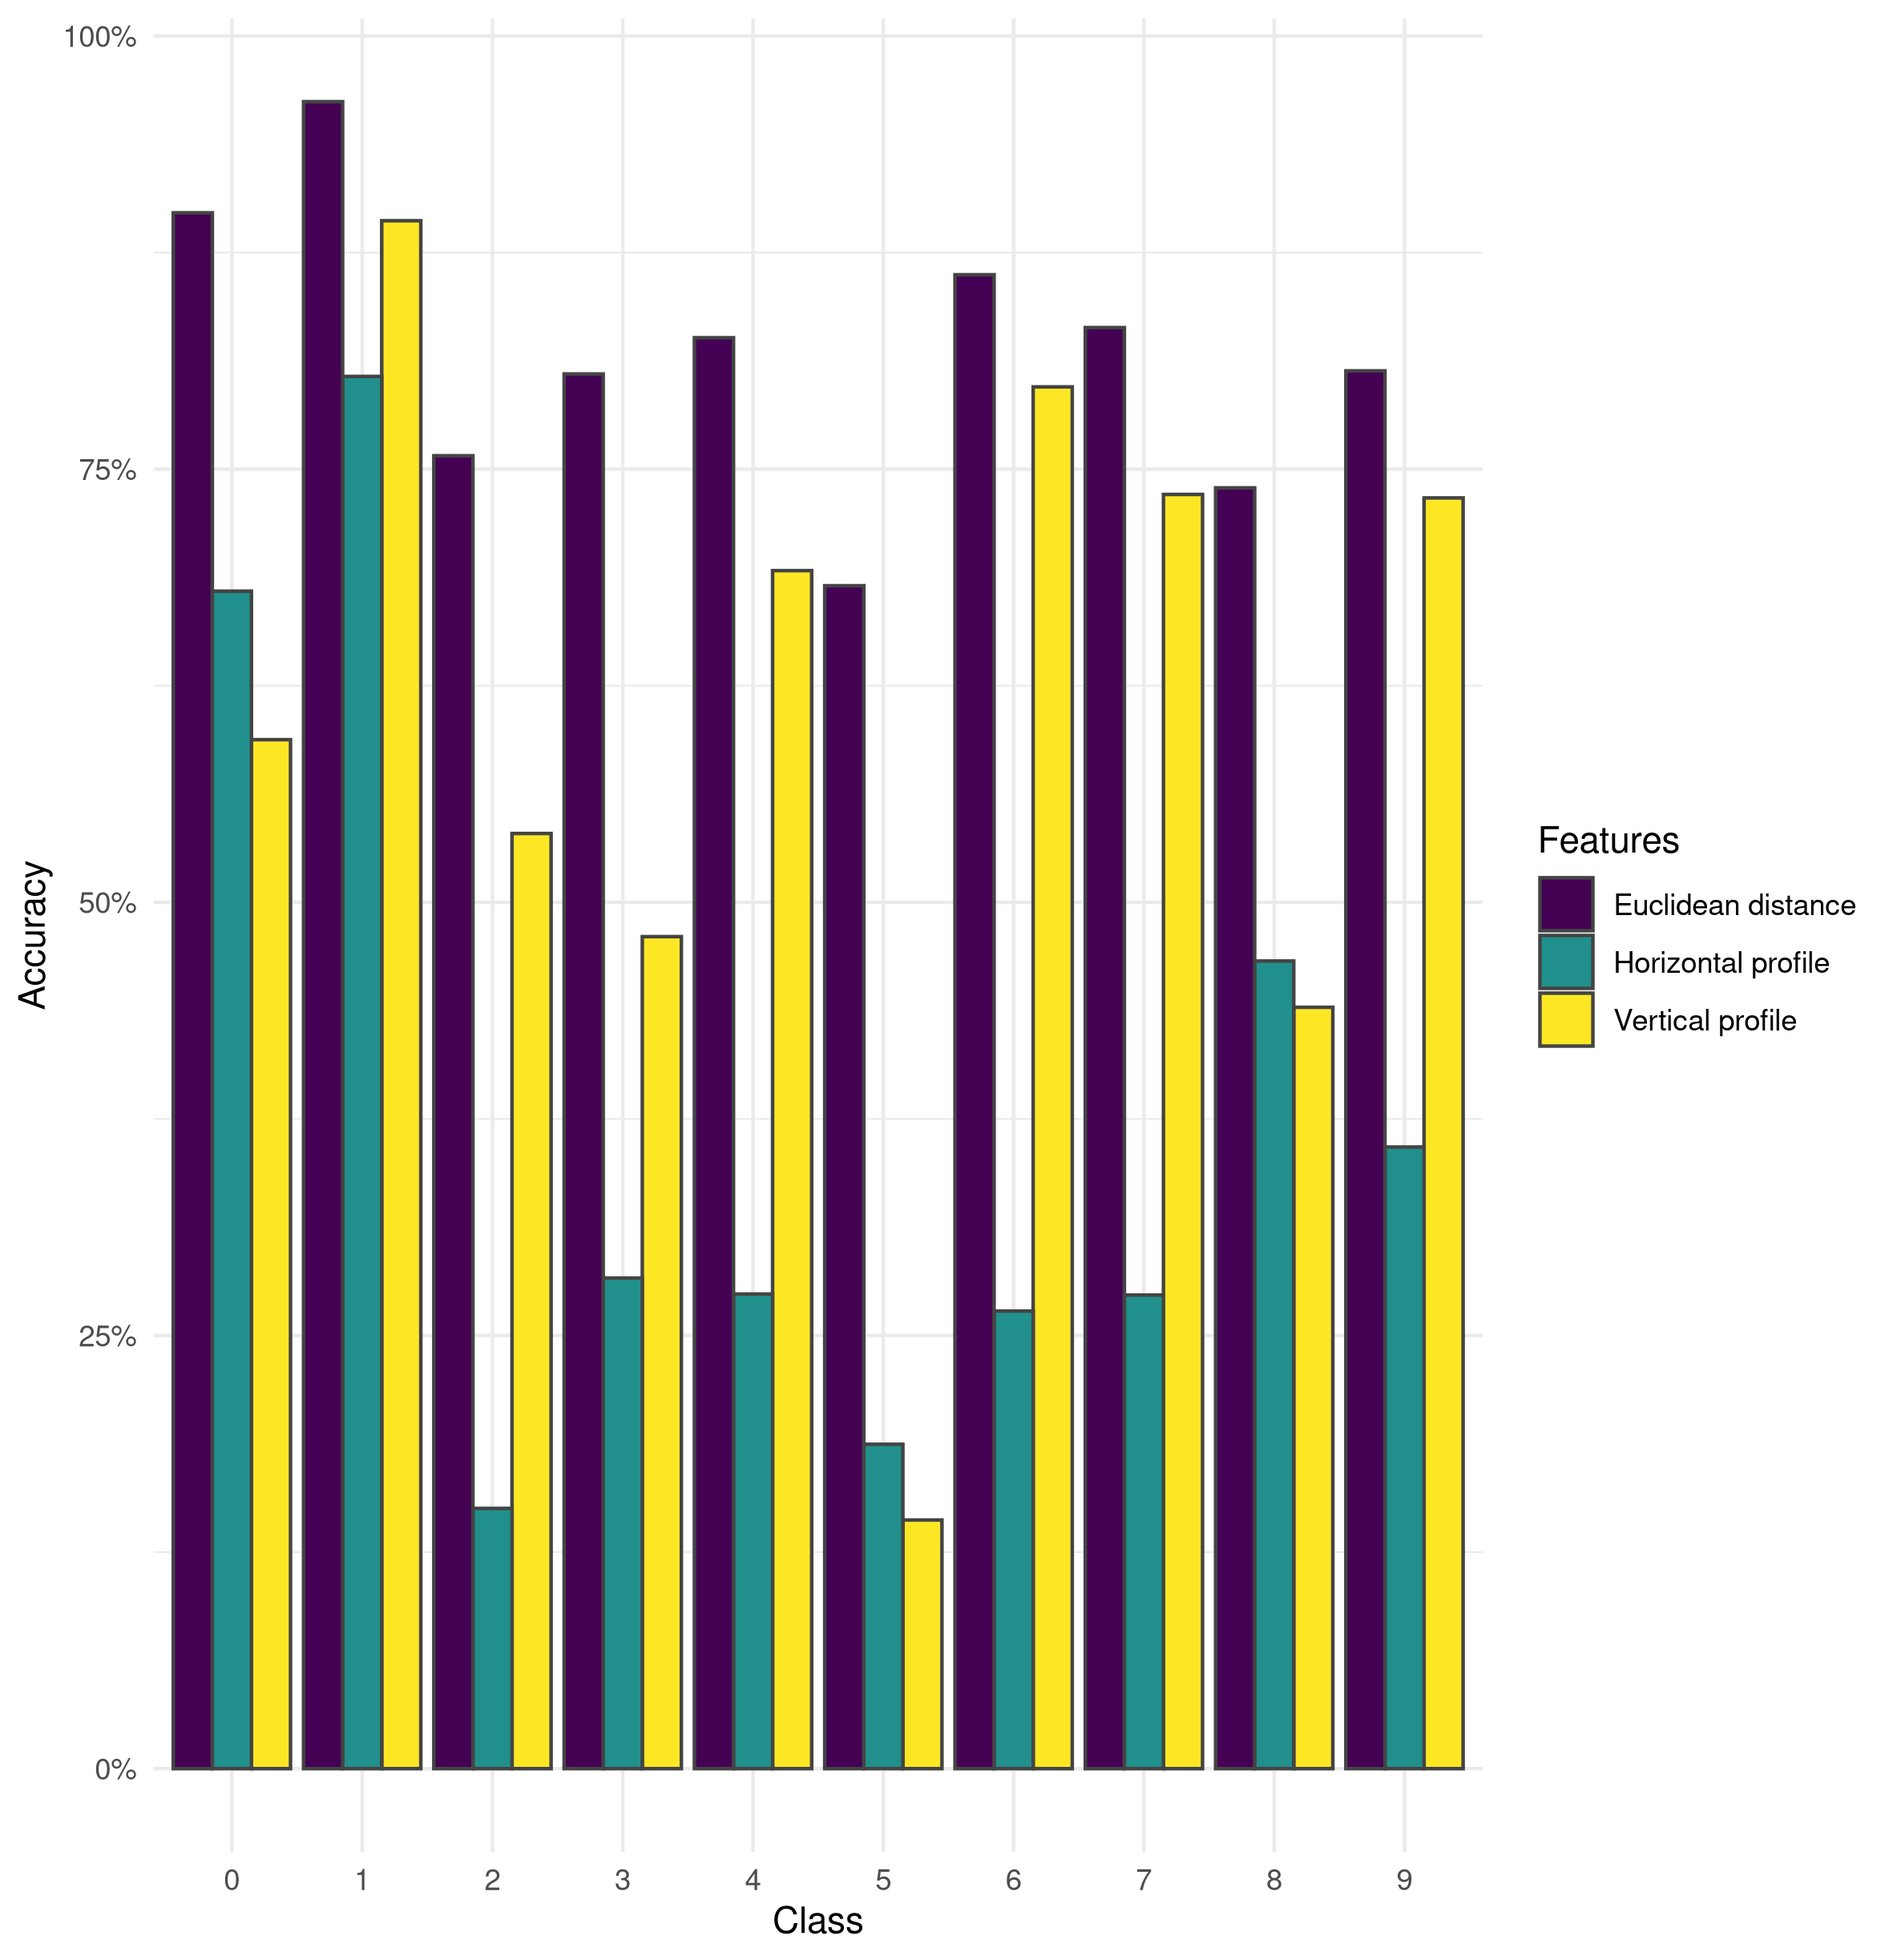
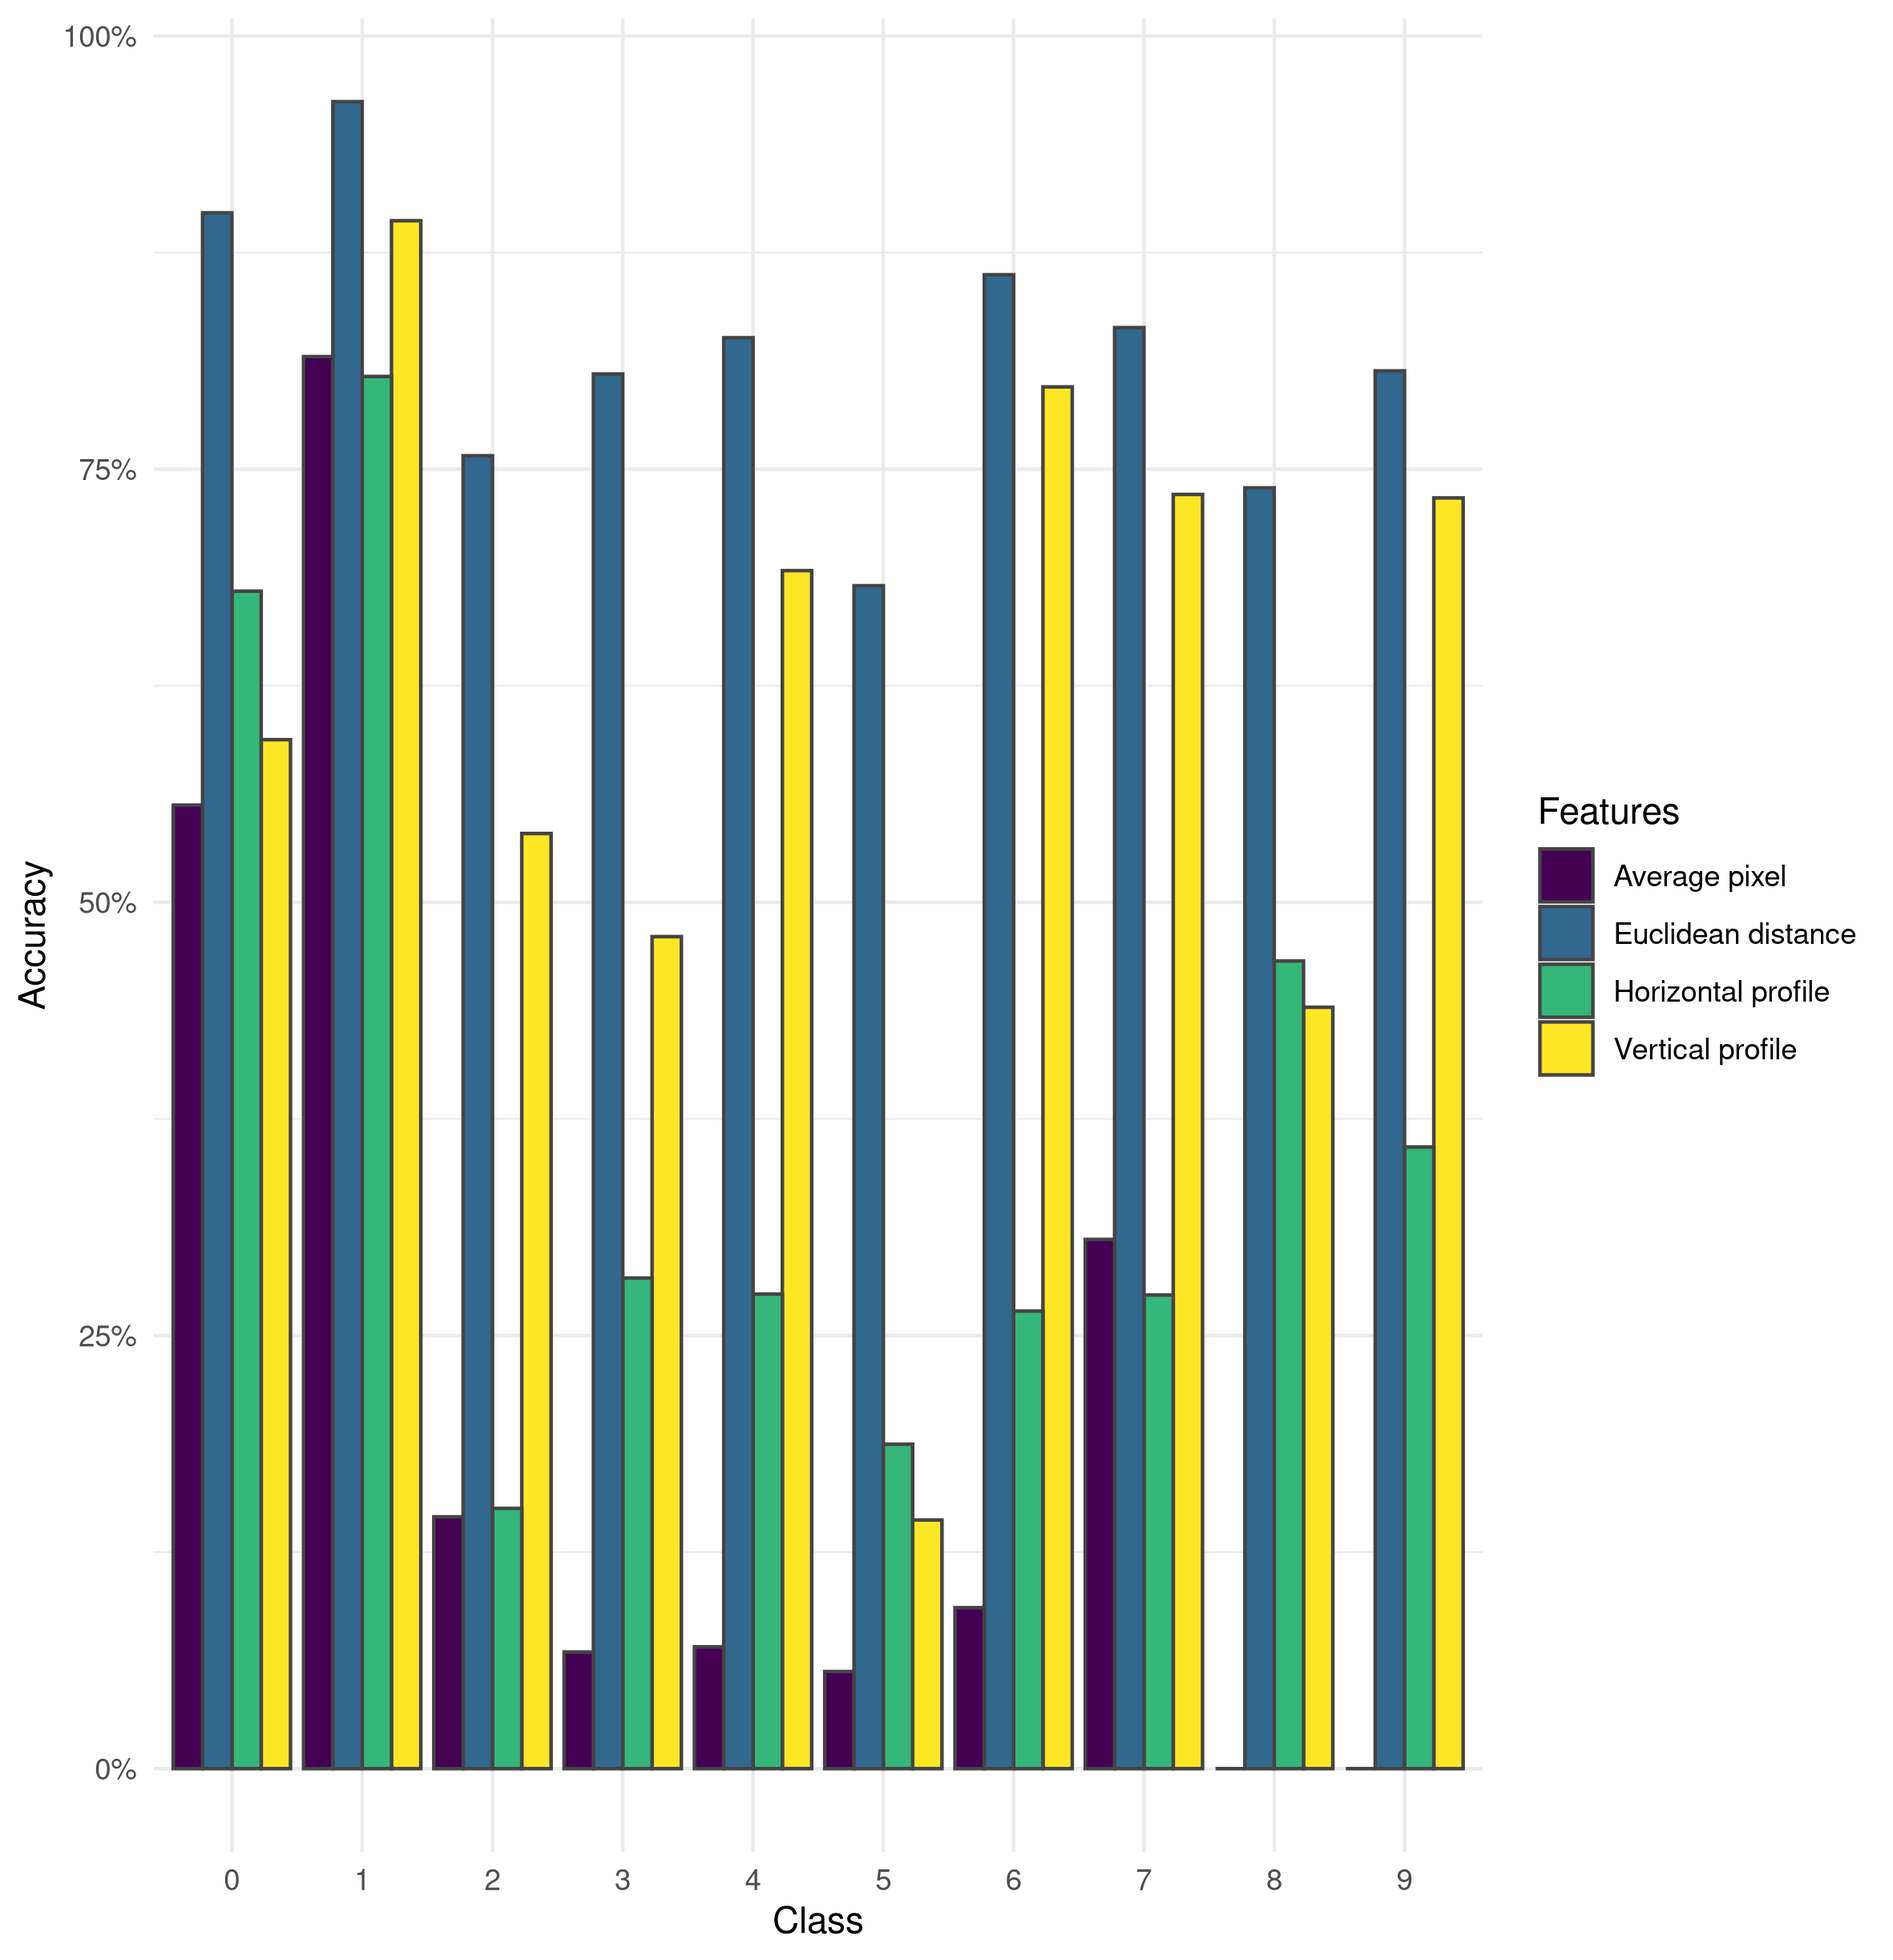
Implement average-pixel feature.

Changed region(s): [[0.0927, 0.0311, 0.7727, 0.9011], [0.8036, 0.4039, 0.989, 0.5593]]

diff --git a/exercises/02_classification/classification.py b/exercises/02_classification/classification.py
@@ -148,19 +148,26 @@ class Classifier:
 def main():
     features = [
             {
-                'id': 'horizontal_profile',
-                'name': "Horizontal profile",
-                'f': extract_horizontal_profile,
-                'f_compare': compare_profiles,
-                'dim': (28,)
+                'id': 'average_pixel',
+                'name': "Average pixel",
+                'f': extract_average_pixel,
+                'f_compare': compare_average_pixel,
+                'dim': (1,)
             },
-            {
-                'id': 'vertical_profile',
-                'name': "Vertical profile",
-                'f': extract_vertical_profile,
-                'f_compare': compare_profiles,
-                'dim': (28,)
-            },
+            # {
+            #     'id': 'horizontal_profile',
+            #     'name': "Horizontal profile",
+            #     'f': extract_horizontal_profile,
+            #     'f_compare': compare_profiles,
+            #     'dim': (28,)
+            # },
+            # {
+            #     'id': 'vertical_profile',
+            #     'name': "Vertical profile",
+            #     'f': extract_vertical_profile,
+            #     'f_compare': compare_profiles,
+            #     'dim': (28,)
+            # },
             # {
             #     'id': 'euclidean_distance',
             #     'name': 'Euclidean distance',
@@ -264,6 +271,13 @@ def compare_euclidean_distance(a, b):
 
     # And finally the sqrt
     return np.sqrt(sum_of_diff)
+
+def extract_average_pixel(pixels):
+    return pixels.sum() / (pixels.shape[0] * pixels.shape[1])
+
+def compare_average_pixel(a, b):
+    # Average pixel value will be in [0, 255], normalize to [0, 1]
+    return abs(a - b) / 255
 
 
 # Loads image using CV2, returns a n*m*3 (for RGB) respectively a n*m (for
